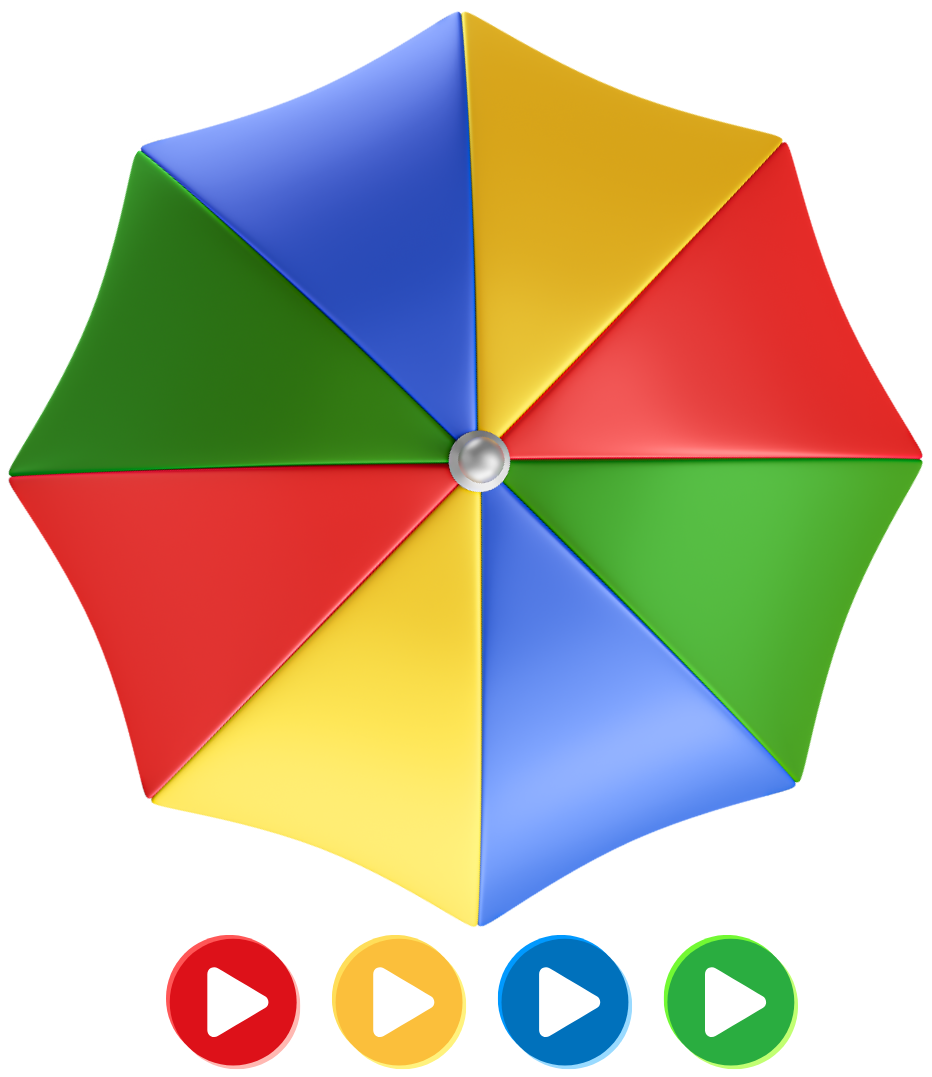
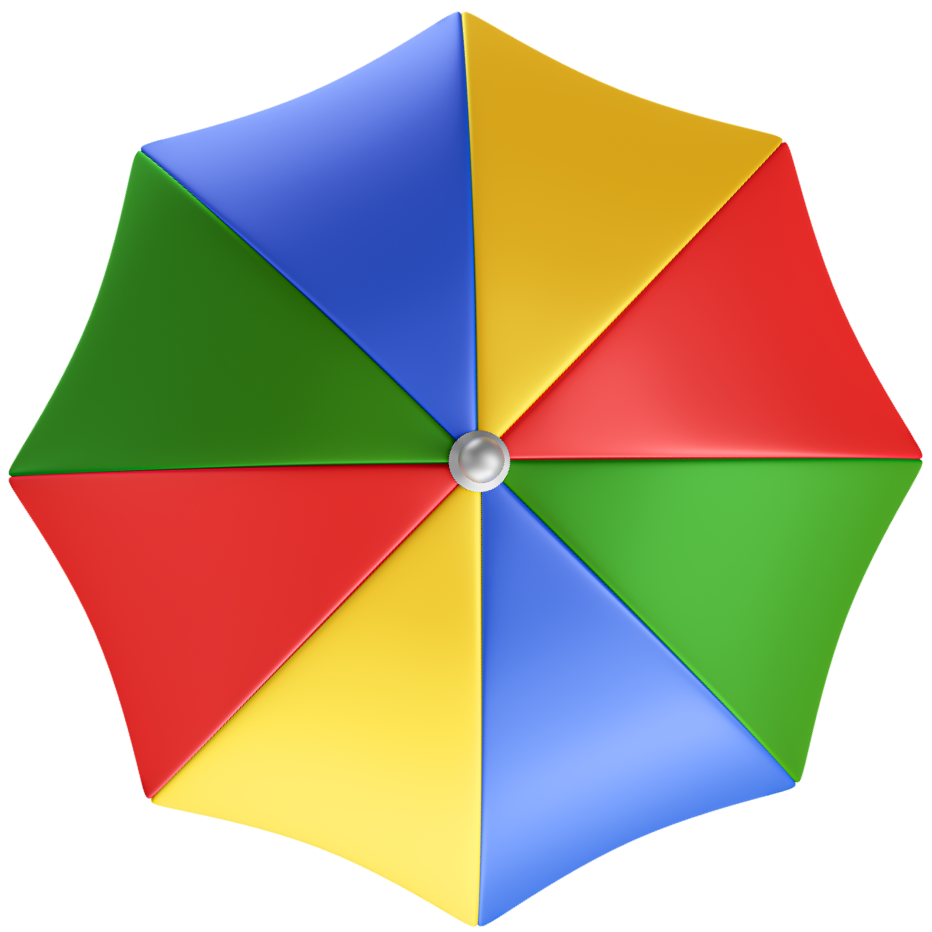
Atualizei só o necessário para que os botões da sombrinha sejam fixos, para que na hora da animação trema só a sombrinha.

diff --git a/styles.css b/styles.css
@@ -14,14 +14,19 @@
   --brand-w:40px;            /* largura do ícone do logo (sombrinha) */
 
   /* Posição do título frevo_play */
-  --ttl-w: 360px;   /* LARGURA do título */
+  --ttl-w: 360px;   /* Largura do título */
   --ttl-x: 170px;   /* Posição do título */
   --ttl-top: 0px;   /* Posição do título a partir do topo da seção hero */
 
   /* Posição da sombrinha */
-  --umb-w: 260px;   /* LARGURA da sombrinha */
+  --umb-w: 260px;   /* Largura da sombrinha */
   --umb-x: 240px;   /* Posição da sombrinha a partir do centro (+ direita / - esquerda) */
   --umb-top: 0px;   /* Posição da sombrinha a partir do topo da seção hero */
+
+    /* Posição dos botões da sombrinha */
+  --btns-w: 260px;   /* Largura dos botões da sombrinha */
+  --btns-x: 240px;   /* Posição dos botões a partir do centro (+ direita / - esquerda) */
+  --btns-top: 260px;   /* Posição dos botões a partir do topo da seção hero */
 }
 
 html{ scroll-behavior:smooth; }
@@ -183,6 +188,31 @@ nav a:focus-visible{
 @media (max-width: 900px){
   .hero .container{ padding-right: 0; }
   .hero-umbrella{
+    position: static;
+    transform: none;
+    display: block;
+    margin: 18px auto 0;
+    width: 220px;
+  }
+}
+
+/* Botões da sombrinha fixos: âncora no centro + offset controlado por variáveis */
+.hero-botoes{
+  position: absolute;
+  width: var(--btns-w);
+  height: auto;
+  top: var(--btns-top);               /* Posição vertical */
+  left: calc(50% + var(--btns-x));    /* Posição horizontal */
+  transform: translateX(-50%);       /* Centra a imagem no ponto definido */
+  object-fit: contain;
+  pointer-events: none;
+  user-select: none;
+  filter: drop-shadow(0 6px 18px rgba(0,0,0,.12));
+}
+/* Mobile: volta para o fluxo para não poluir a leitura */
+@media (max-width: 900px){
+  .hero .container{ padding-right: 0; }
+  .hero-botoes{
     position: static;
     transform: none;
     display: block;

diff --git a/index.html b/index.html
@@ -38,6 +38,7 @@
     <div class="container" style="margin-top:0px">
       <img class="hero-titulo" src="assets/img/frevo-play.png" alt="" aria-hidden="true">
       <img class="hero-umbrella" src="assets/img/sombrinha.png" alt="" aria-hidden="true">
+      <img class="hero-botoes" src="assets/img/botoes.png" alt="" aria-hidden="true">
       <!-- Não tem '<h1>' porque a imagem 'frevo-play.png' representa o título -->
       <p class="lead" style="margin-top:60px">
         Documentação do protótipo físico-digital que reproduz o jogo de memorização com luzes e sons em uma
